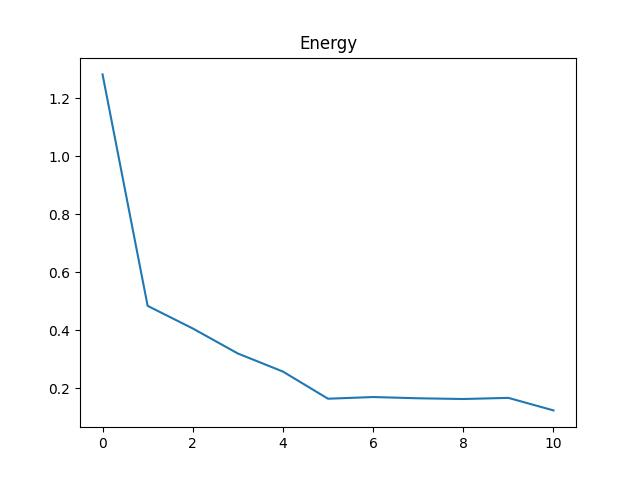
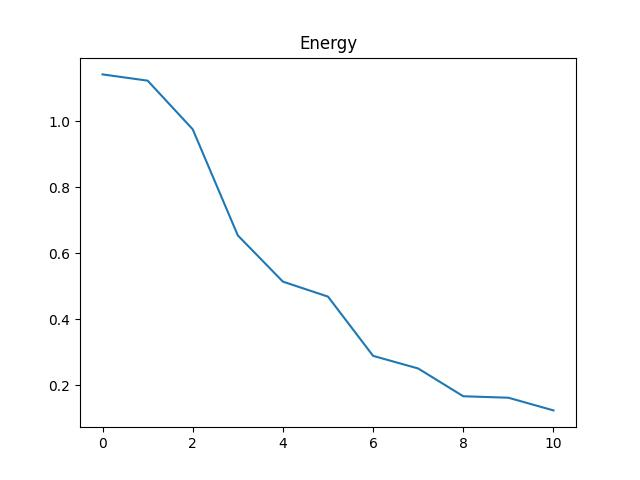
etude complete

diff --git a/energie.py b/energie.py
@@ -9,7 +9,7 @@ import _env
 def run_etude_frequentielle_chi_0(): 
     N = 64  # number of points along x-axis
     M = 2 * N  # number of points along y-axis
-    level = 0 # level of the fractal
+    level = 3 # level of the fractal
     spacestep = 1.0 / N  # mesh size
     # Material = [phi, gamma_p, sigma, rho_0, alpha_h, c_0]
     material = [0.70, 7.0/5.0, 140000.0, 1.2, 1.02,340.0]
@@ -46,11 +46,11 @@ def run_etude_frequentielle_chi_0():
 
     plt.plot(omega, energie, marker = 'x', color = 'darkblue')
     plt.plot(omega, energie, color = 'darkblue')
-    plt.title('Graphe de $J(\chi)$ en fonction de $\omega$; chi = 0 sur neuman ')
-    plt.xlabel('Fréquence $\omega$')
-    plt.ylabel('Énergie $J(\chi)$')
+    plt.title('Graphe  $J(\chi)$ =f($\omega$); \chi = 0 everywhere ')
+    plt.xlabel('Frequency $\omega$')
+    plt.ylabel('Energy $J(\chi)$')
     # plt.show()
-    filename = 'fig_energy_chi_0_partout.jpg'
+    filename = 'fig_energy_chi_0_partout_level3.jpg'
     plt.savefig(filename)
     plt.close()
 
@@ -58,7 +58,7 @@ def run_etude_frequentielle_chi_0():
 def run_etude_frequentielle_chi_1(): 
     N = 64  # number of points along x-axis
     M = 2 * N  # number of points along y-axis
-    level = 2 # level of the fractal
+    level = 3 # level of the fractal
     spacestep = 1.0 / N  # mesh size
     # Material = [phi, gamma_p, sigma, rho_0, alpha_h, c_0]
     material = [0.70, 7.0/5.0, 140000.0, 1.2, 1.02,340.0]
@@ -97,11 +97,11 @@ def run_etude_frequentielle_chi_1():
     
     plt.plot(omega, energie, marker = 'x', color = 'darkblue')
     plt.plot(omega, energie, color = 'darkblue')
-    plt.title('Graphe de $J(\chi)$ en fonction de $\omega$; chi = 1 sur neuman ')
-    plt.xlabel('Fréquence $\omega$')
+    plt.title('Graph  $J(\chi)$=f($\omega$); $\chi = 1$ everywhere ')
+    plt.xlabel('Frequency $\omega$')
     plt.ylabel('Énergie $J(\chi)$')
     # plt.show()
-    filename = 'fig_energy_chi_1_partout.jpg'
+    filename = 'fig_energy_chi_1_partout_level3.jpg'
     plt.savefig(filename)
     plt.close()
 
@@ -111,7 +111,7 @@ def run_etude_frequentielle_chi_1():
 def run_frequentielle_chi_optimise_vobj_donnée(): 
     N = 64  # number of points along x-axis
     M = 2 * N  # number of points along y-axis
-    level = 2 # level of the fractal
+    level = 3 # level of the fractal
     spacestep = 1.0 / N  # mesh size
     # Material = [phi, gamma_p, sigma, rho_0, alpha_h, c_0]
     material = [0.70, 7.0/5.0, 140000.0, 1.2, 1.02,340.0]
@@ -126,7 +126,7 @@ def run_frequentielle_chi_optimise_vobj_donnée():
     # -- set geometry of domain
     domain_omega, x, y, _, _ = preprocessing._set_geometry_of_domain(M, N, level)
 
-    omega = numpy.linspace(2*numpy.pi*20, 2*numpy.pi*1000, 100)
+    omega = numpy.linspace(2*numpy.pi*20, 2*numpy.pi*1000, 60)
     energie = []
     
     def g(x,omega):
@@ -146,7 +146,8 @@ def run_frequentielle_chi_optimise_vobj_donnée():
                 if domain_omega[i, j] == _env.NODE_ROBIN:
                     S += 1
         V_0 = 1  # initial volume of the domain
-        V_obj = numpy.sum(numpy.sum(chi)) / S  # constraint on the density
+        # V_obj = numpy.sum(numpy.sum(chi)) / S  # constraint on the density
+        V_obj = 0.143
         mu = 1# initial gradient step
         mu1 = 10 ** (-5)  # parameter of the volume functional
 
@@ -171,11 +172,11 @@ def run_frequentielle_chi_optimise_vobj_donnée():
     
     plt.plot(omega, energie, marker = 'x', color = 'darkblue')
     plt.plot(omega, energie, color = 'darkblue')
-    plt.title('Graphe de $J(\chi)$ en fonction de $\omega$; optimisé pour v_obj fixé  ')
-    plt.xlabel('Fréquence $\omega$')
-    plt.ylabel('Énergie $J(\chi)$')
+    plt.title('Graphe de $J(\chi)$ =f($\omega$); $\chi$ optimized ,v_obj Optimized    ')
+    plt.xlabel('Frequency $\omega$')
+    plt.ylabel('Energy $J(\chi)$')
     # plt.show()
-    filename = 'fig_energy_chi_optimise.jpg'
+    filename = 'fig_energy_chi_optimise_level3.jpg'
     plt.savefig(filename)
     plt.close()
 
@@ -184,5 +185,5 @@ def run_frequentielle_chi_optimise_vobj_donnée():
 
 if __name__ == '__main__':
     # run_etude_frequentielle_chi_0()
-    run_etude_frequentielle_chi_1()
-    # run_frequentielle_chi_optimise_vobj_donnée()
+    # run_etude_frequentielle_chi_1()
+    run_frequentielle_chi_optimise_vobj_donnée()

diff --git a/demo_control_polycopie2023.py b/demo_control_polycopie2023.py
@@ -44,18 +44,7 @@ def integral(chi):
             integral += chi[i,j]*spacestep
     return integral
 
-# def projection_finale(chi, V_obj): 
-#     table = []
-#     for i in range (M):
-#          for j in range (N):
-#               table.append((chi[i,j],(i,j)))
 
-#     table= sorted(table)
-#     chi1=numpy.zeros(M,N)
-#     for index in range (int(V_obj*N)):
-
-    
-#     return chi 
 
 def compute_projected(chi, domain, V_obj):
     """This function performs the projection of $\chi^n - mu*grad
@@ -108,23 +97,28 @@ def compute_projected(chi, domain, V_obj):
 
     return chi
 
-def projection_finale(chi, V_obj): 
+def projection_finale(chi, V_obj,domain_omega): 
     table = []
 
     M,N = numpy.shape(chi)
-    
+    S = 0  # surface of the fractal
+
     for i in range (M):
          for j in range (N):
-              table.append((chi[i,j],(i,j)))
-
+              if  domain_omega[i,j] == _env.NODE_ROBIN: 
+                table.append((chi[i,j],(i,j)))
+                S += 1
+    
     table= sorted(table, reverse=True)
     chi1=numpy.zeros((M,N))
-    nbre_de_uns = int(V_obj*N)
-    for i in range(nbre_de_uns): 
+    nbre_de_uns = int(V_obj*S)
+    i = 0
+    while (i < nbre_de_uns): 
+        
         value, node_id = table[i]
         node_i, node_j= node_id 
         chi1[node_i,node_j] = 1 
-
+        i+=1
     return chi1
 
 def compute_objective_function(domain_omega, u, spacestep):
@@ -209,7 +203,7 @@ def optimization_procedure(domain_omega, spacestep, omega, f, f_dir, f_neu, f_ro
     print('end. computing solution of Helmholtz problem, i.e., u')
     alpha_rob = Alpha*chi
     u = processing.solve_helmholtz(domain_omega, spacestep, omega, f, f_dir, f_neu, f_rob, beta_pde, alpha_pde, alpha_dir, beta_neu, beta_rob, alpha_rob)
-    # chi = projection_finale(chi,V_obj)
+    chi = projection_finale(chi,V_obj,domain_omega)
     return chi, energy, u, grad
 
 
@@ -223,7 +217,7 @@ if __name__ == '__main__':
     # -- set parameters of the geometry
     N = 64 # number of points along x-axis
     M = 2 * N  # number of points along y-axis
-    level = 1 # level of the fractal
+    level = 3 # level of the fractal
     spacestep = 1.0 / N  # mesh size
     
     # Material = [phi, gamma_p, sigma, rho_0, alpha_h, c_0]
@@ -291,7 +285,8 @@ if __name__ == '__main__':
             if domain_omega[i, j] == _env.NODE_ROBIN:
                 S += 1
     V_0 = 1  # initial volume of the domain
-    V_obj = numpy.sum(numpy.sum(chi)) / S  # constraint on the density
+    # V_obj = numpy.sum(numpy.sum(chi)) / S  # constraint on the density
+    V_obj = 0.143
     mu = 5# initial gradient step
     mu1 = 10 ** (-5)  # parameter of the volume functional
 
@@ -317,7 +312,7 @@ if __name__ == '__main__':
     
     chin = chi.copy()
     un = u.copy()
-    
+    print(numpy.sum(numpy.sum(chi)) / S)
     # -- plot chi, u, and energy
     postprocessing._plot_uncontroled_solution(u0, chi0)
     postprocessing._plot_controled_solution(un, chin)

diff --git a/preprocessing.py b/preprocessing.py
@@ -111,8 +111,8 @@ def _set_geometry_of_domain(M, N, level=0):
 
 def _set_chi(M, N, x, y):
     chi = numpy.zeros((M, N), dtype=numpy.float64)
-    k_begin = (len(x) - 1) // 5
-    k_end = 3 * (len(x) - 1) // 5
+    k_begin = (len(x) - 1) // 100
+    k_end = 15 * (len(x) - 1) // 100
     val = 1.0
     for k in range(k_begin, k_end):
         chi[int(y[k]), int(x[k])] = val
